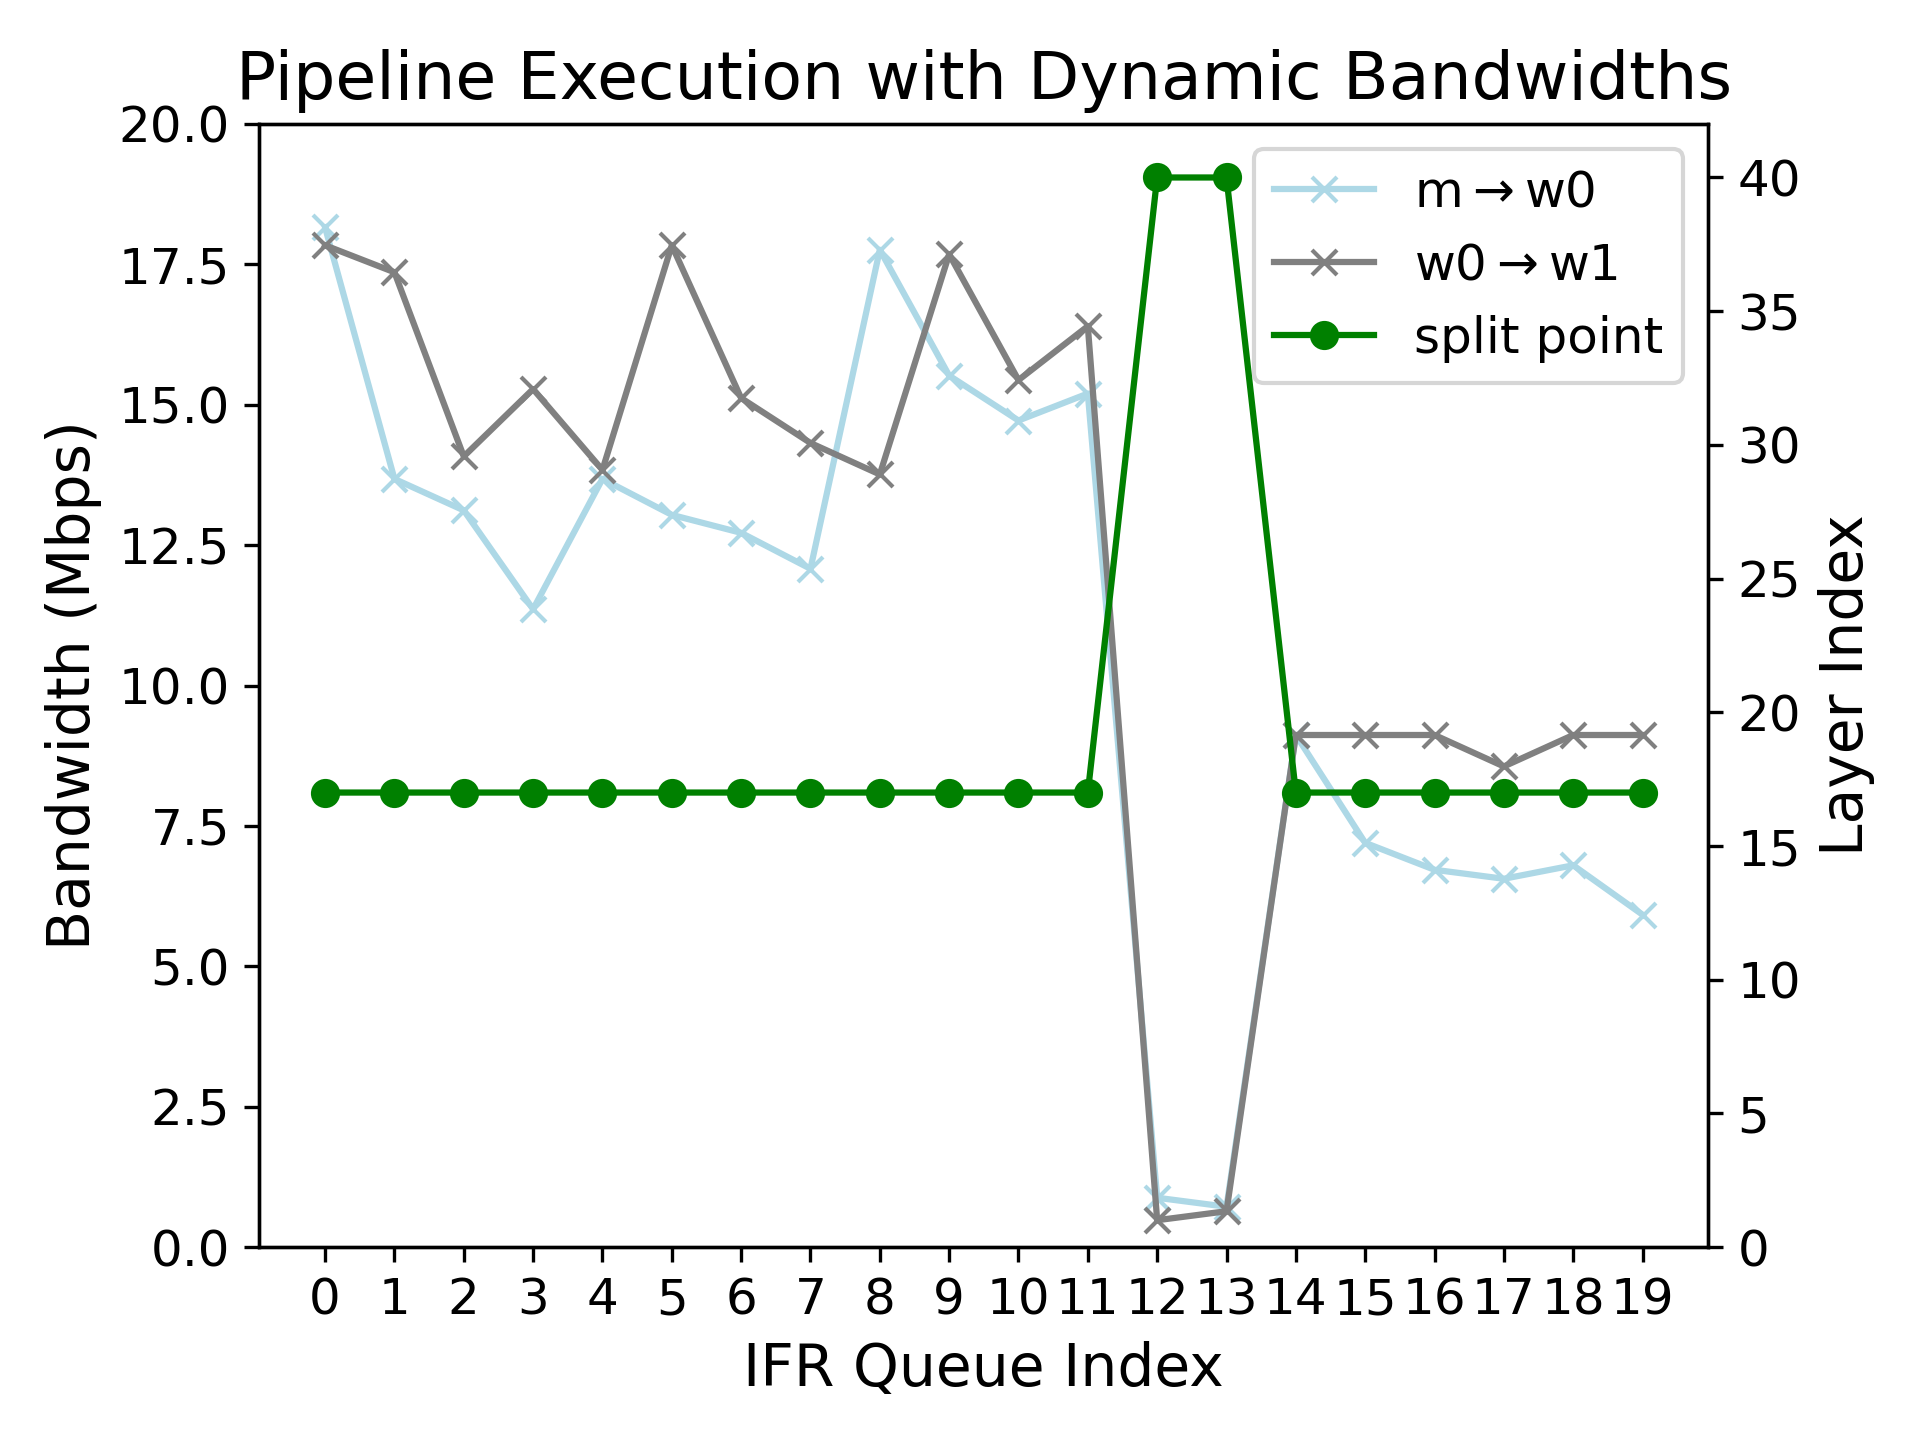
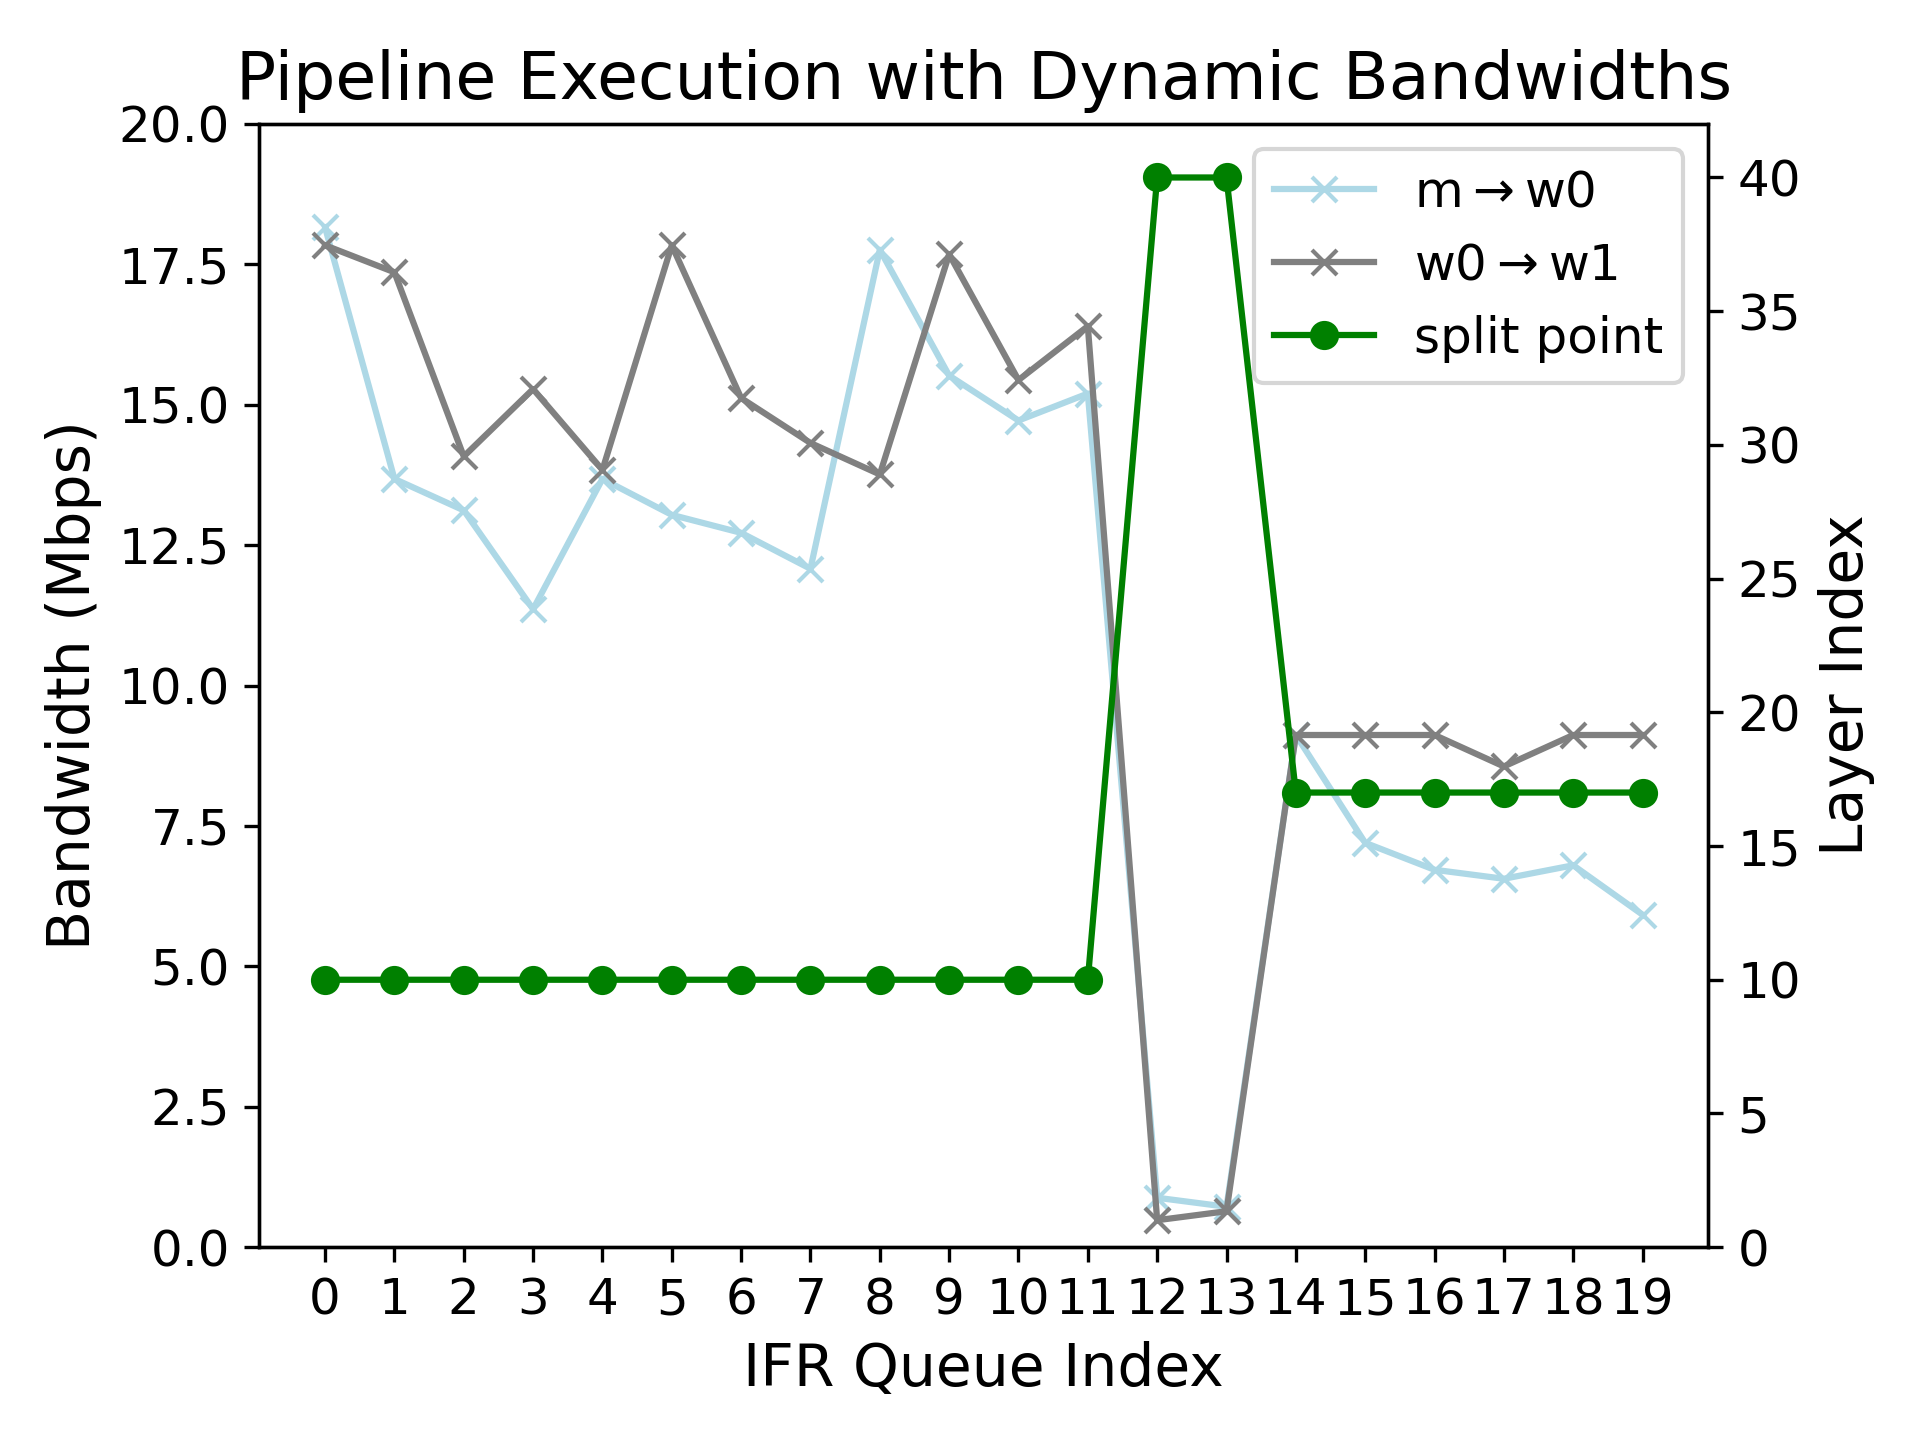
fix: update best_split_points for consistency in bandwidth analysis

Changed region(s): [[0.1562, 0.25, 0.5938, 0.6875], [0.5938, 0.1875, 0.625, 0.2188]]

diff --git a/result_for_docker_sim/pipeline_random_bandwidth.py b/result_for_docker_sim/pipeline_random_bandwidth.py
@@ -9,7 +9,7 @@ w1_bandwidths = [2.23, 2.17, 1.76, 1.91, 1.73, 2.23, 1.89, 1.79, 1.72, 2.21, 1.9
 w0_bandwidths = [x * 8 for x in w0_bandwidths]
 w1_bandwidths = [x * 8 for x in w1_bandwidths]
 
-best_split_points = [17, 17, 17, 17, 17, 17, 17, 17, 17, 17, 17, 17, 40, 40, 17, 17, 17, 17, 17, 17]
+best_split_points = [10, 10, 10, 10, 10, 10, 10, 10, 10, 10, 10, 10, 40, 40, 17, 17, 17, 17, 17, 17]
 
 # 创建图表
 fig, ax1 = plt.subplots()
